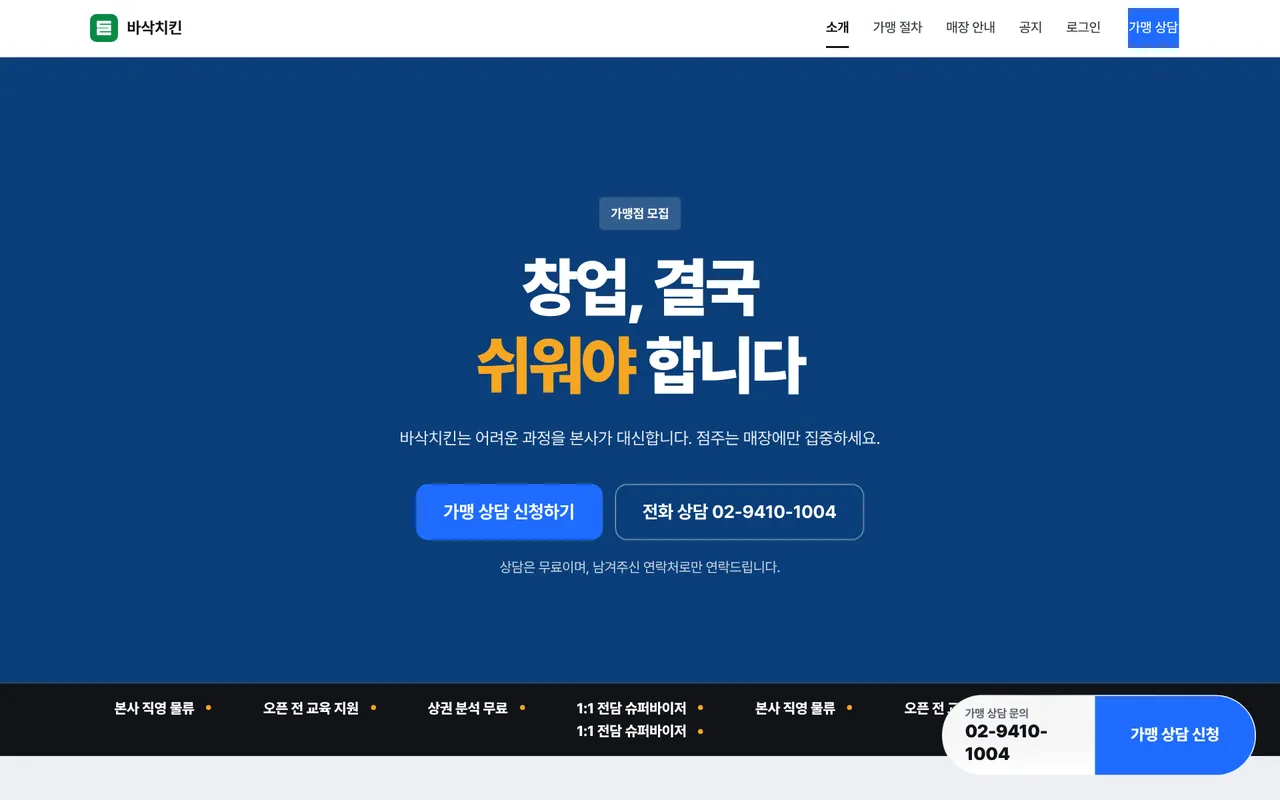
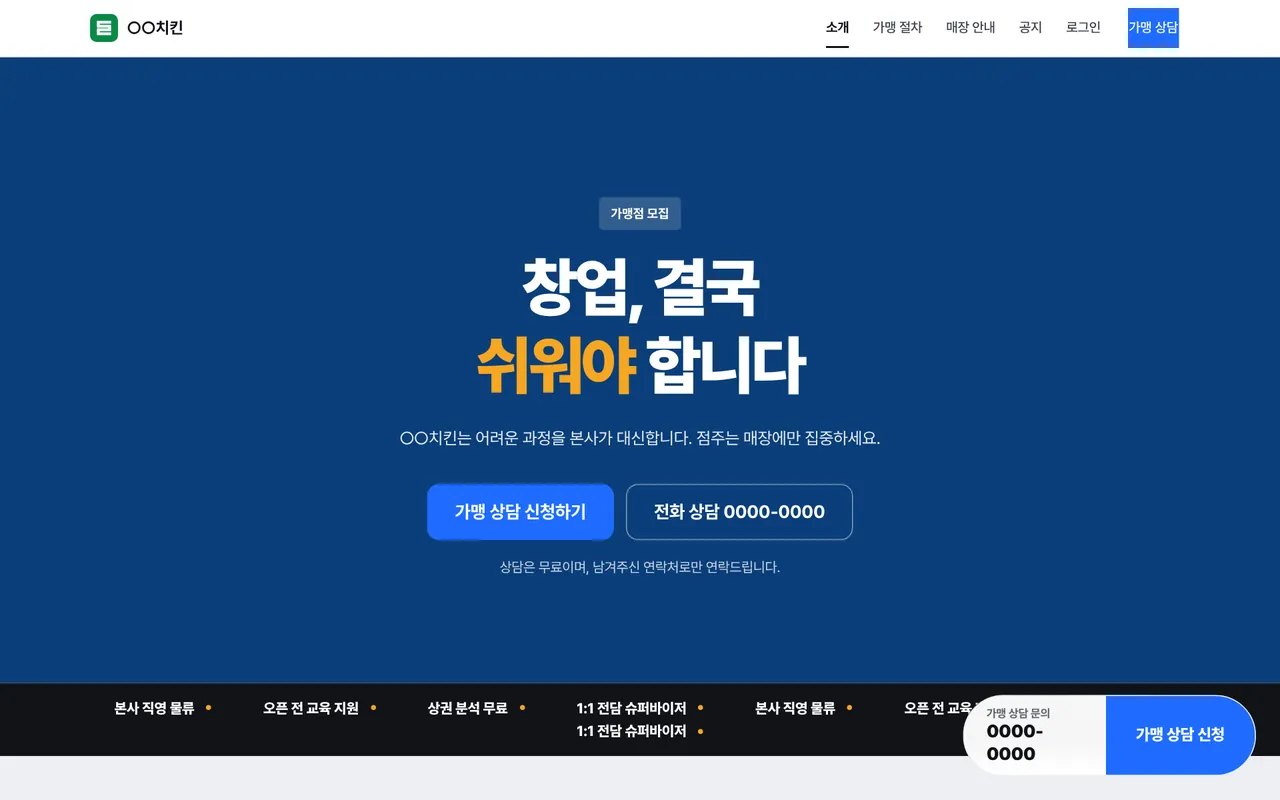
홈페이지 제작 페이지: 업체명 가림 · 움직임 추가(새 신청 알림 · 업종별 숫자 카드 · 매달 결제 흐름) · 통신판매업 신고번호
Claude-Session: https://claude.ai/code/session_01RPPicnX6jV1KXiheWYNQri

diff --git a/ur-team-site/assets/css/site.css b/ur-team-site/assets/css/site.css
@@ -1787,6 +1787,60 @@ a.prod:hover b { color: var(--accent); }
 .hp-pay p { color: var(--muted); font-size: 15px; }
 .hp-pay a { color: var(--accent); text-decoration: underline; text-underline-offset: 3px; }
 
+/* 첫 화면: 업종이 바뀔 때마다 "새 신청이 들어왔다" 알림이 뜬다(뜻: 문의가 쌓이는 홈페이지) */
+.hp-toast { position: absolute; left: -18px; bottom: 136px; z-index: 2; display: grid; grid-template-columns: auto 1fr auto; gap: 12px; align-items: center; min-width: 290px; padding: 12px 16px; background: #fff; border: 1px solid var(--line); border-left: 3px solid var(--accent); box-shadow: 0 18px 40px -18px rgba(15, 18, 22, .45); opacity: 0; transform: translateY(14px); transition: opacity .45s var(--ease), transform .55s var(--ease); }
+.hp-toast.is-show { opacity: 1; transform: none; }
+.hp-toast b { display: block; font-size: 14px; font-weight: 600; }
+.hp-toast small { display: block; font-size: 12px; color: var(--muted); }
+.hp-toast__dot { width: 9px; height: 9px; border-radius: 50%; background: var(--accent); animation: ping 1.6s infinite; }
+.hp-toast__n { font-size: 12px; color: var(--muted); white-space: nowrap; }
+.hp-toast__n b { display: inline; font-size: 15px; color: var(--accent); font-variant-numeric: tabular-nums; }
+
+/* 업종 사진 위 작은 카드 — 사진이 걷힌 뒤 떠오르고, 그 업종에서 실제로 움직이는 숫자를 보여 준다 */
+.hp-kind__media { position: relative; }
+.hp-chip { position: absolute; z-index: 1; background: #fff; border: 1px solid var(--line); box-shadow: 0 16px 34px -16px rgba(15, 18, 22, .4); padding: 12px 16px; font-size: 13px; opacity: 0; transform: translateY(16px); transition: opacity .6s var(--ease) .7s, transform .7s var(--ease) .7s; }
+[data-wipe].is-in .hp-chip { opacity: 1; transform: none; animation: hp-bob 5s ease-in-out 1.6s infinite; }
+@keyframes hp-bob { 50% { translate: 0 -6px; } }
+.hp-chip > span { display: flex; align-items: center; gap: 8px; color: var(--muted); font-weight: 500; }
+.hp-chip__live { width: 8px; height: 8px; border-radius: 50%; background: #18a058; box-shadow: 0 0 0 0 rgba(24, 160, 88, .5); animation: hp-live 1.8s infinite; }
+@keyframes hp-live { 70%, 100% { box-shadow: 0 0 0 8px rgba(24, 160, 88, 0); } }
+.hp-chip--open { right: 16px; bottom: 16px; display: grid; grid-template-columns: auto auto; gap: 2px 14px; align-items: center; }
+.hp-chip--open > span { grid-column: 1; }
+.hp-chip--open b { grid-column: 2; grid-row: 1; font-size: 22px; font-weight: 600; letter-spacing: -.02em; }
+.hp-chip--bars { left: 16px; bottom: 16px; width: 230px; }
+.hp-chip--bars p { display: grid; grid-template-columns: 44px 1fr; gap: 8px; align-items: center; margin-top: 8px; }
+.hp-chip--bars em { font-style: normal; font-size: 12px; color: var(--muted); }
+.hp-chip--bars i { display: block; height: 8px; background: var(--accent); width: 0; transition: width 1.2s var(--ease) 1.1s; }
+[data-wipe].is-in .hp-chip--bars p:nth-of-type(2) i { transition-delay: 1.25s; }
+[data-wipe].is-in .hp-chip--bars p:nth-of-type(3) i { transition-delay: 1.4s; }
+[data-wipe].is-in .hp-chip--bars i { width: var(--w); }
+.hp-chip--hours { right: 16px; bottom: 16px; width: 220px; }
+.hp-chip--hours > span { color: var(--ink); font-weight: 600; }
+.hp-chip__track { position: relative; height: 8px; margin: 10px 0 6px; background: var(--bg-3); }
+.hp-chip__track i { position: absolute; top: 0; bottom: 0; background: #9fd8c7; }
+.hp-chip__track i:nth-child(1) { left: 6%; width: 34%; }
+.hp-chip__track i:nth-child(2) { left: 46%; width: 40%; }
+.hp-chip__track b { position: absolute; top: -4px; bottom: -4px; width: 2px; background: var(--ink); left: 6%; transition: left 2.4s var(--ease) 1.1s; }
+[data-wipe].is-in .hp-chip__track b { left: 30%; }
+.hp-chip--hours small { font-size: 11px; color: var(--muted); }
+
+/* 가격: 매달 같은 날 결제되는 흐름 — 선이 지나가며 달마다 체크가 켜진다 */
+.hp-months { list-style: none; margin: 28px 0 0; padding: 0; display: grid; grid-template-columns: repeat(6, 1fr); position: relative; }
+.hp-months::before, .hp-months::after { content: ""; position: absolute; left: 0; right: 0; top: 11px; height: 2px; background: var(--line-2); }
+.hp-months::after { background: var(--accent); transform: scaleX(0); transform-origin: left; transition: transform 2.6s linear .2s; right: auto; width: calc(100% * 4 / 6); }
+.hp-months.is-in::after { transform: scaleX(1); }
+.hp-months li { position: relative; padding-top: 34px; font-size: 13px; }
+.hp-months li::before { content: ""; position: absolute; left: 0; top: 2px; width: 20px; height: 20px; border-radius: 50%; background: #fff; border: 2px solid var(--line-2); transition: background .3s, border-color .3s; transition-delay: calc(var(--n, 0) * .55s + .2s); }
+.hp-months li::after { content: ""; position: absolute; left: 6px; top: 7px; width: 5px; height: 9px; border: solid #fff; border-width: 0 2px 2px 0; transform: rotate(45deg) scale(0); transition: transform .3s; transition-delay: calc(var(--n, 0) * .55s + .3s); }
+.hp-months.is-in li::before { background: var(--accent); border-color: var(--accent); }
+.hp-months.is-in li::after { transform: rotate(45deg) scale(1); }
+.hp-months li:nth-child(1) { --n: 0; } .hp-months li:nth-child(2) { --n: 1; } .hp-months li:nth-child(3) { --n: 2; } .hp-months li:nth-child(4) { --n: 3; } .hp-months li:nth-child(5) { --n: 4; }
+.hp-months .hp-months__end::before { border-style: dashed; }
+.hp-months.is-in .hp-months__end::before { background: #fff; border-color: var(--line-2); }
+.hp-months.is-in .hp-months__end::after { transform: rotate(45deg) scale(0); }
+.hp-months b { display: block; font-weight: 600; }
+.hp-months small { color: var(--muted); font-size: 12px; }
+
 @media (max-width: 960px) {
   .hp-hero__in, .hp-kind, .hp-kind--flip, .hp-edit { grid-template-columns: 1fr; }
   .hp-kind--flip .hp-kind__media { order: 0; }
@@ -1798,10 +1852,23 @@ a.prod:hover b { color: var(--accent); }
   .hp-phone { width: 30%; right: -6px; bottom: 92px; border-width: 4px; border-radius: 14px; }
   .hp-demo { grid-template-columns: 1fr; }
   .hp-demo__arrow { transform: rotate(90deg); justify-self: center; }
+  .hp-toast { left: 8px; right: auto; min-width: 0; bottom: 170px; padding: 8px 12px; gap: 10px; }
+  .hp-toast b { font-size: 13px; }
+  .hp-toast small { font-size: 11px; }
+  .hp-toast__n { display: none; }
+  .hp-chip { padding: 8px 12px; font-size: 12px; }
+  .hp-chip--open, .hp-chip--hours { right: 8px; bottom: 8px; }
+  .hp-chip--bars { left: 8px; bottom: 8px; width: 180px; }
+  .hp-chip--hours { width: 180px; }
+  .hp-months { grid-template-columns: repeat(3, 1fr); row-gap: 20px; }
+  .hp-months::before, .hp-months::after { display: none; }
 }
 @media (prefers-reduced-motion: reduce) {
   .hp-browser__view img, .hp-phone img { transition: none; transform: none; }
   .hp-browser__view img.is-on { animation: none; }
   .hp-tabs button[aria-selected="true"] .hp-tabs__bar { animation: none; transform: scaleX(1); }
   .hp-demo__caret { animation: none; }
+  .hp-toast, .hp-chip { transition: none; animation: none !important; }
+  .hp-toast__dot, .hp-chip__live { animation: none; }
+  .hp-months::after, .hp-months li::before, .hp-months li::after, .hp-chip--bars i, .hp-chip__track b { transition: none; }
 }

diff --git a/ur-team-site/src/pages/homepage.html b/ur-team-site/src/pages/homepage.html
@@ -12,7 +12,7 @@
     <!-- 업종을 고르면(또는 몇 초마다 저절로) 창 안의 실제 화면이 그 업종으로 바뀐다 -->
     <div class="hp-stage" data-hp-stage data-reveal="right" style="--i:2">
       <div class="hp-browser" aria-hidden="true">
-        <div class="hp-browser__bar"><i></i><i></i><i></i><span class="hp-browser__url" data-hp-url>bangbae-cafe.kr</span></div>
+        <div class="hp-browser__bar"><i></i><i></i><i></i><span class="hp-browser__url" data-hp-url>our-street.kr</span></div>
         <div class="hp-browser__view">
           <img class="is-on" data-hp-shot="merchant" src="/assets/img/hp/merchant-desk.webp" alt="" width="1280" height="800" fetchpriority="high">
           <img data-hp-shot="franchise" src="/assets/img/hp/franchise-desk.webp" alt="" width="1280" height="800" loading="lazy">
@@ -24,10 +24,11 @@
         <img data-hp-shot="franchise" src="/assets/img/hp/franchise-phone.webp" alt="" width="585" height="1266" loading="lazy">
         <img data-hp-shot="clinic" src="/assets/img/hp/clinic-phone.webp" alt="" width="585" height="1266" loading="lazy">
       </div>
+      <div class="hp-toast" data-hp-toast aria-hidden="true"><i class="hp-toast__dot"></i><div><b data-hp-toast-t>새 회원 가입 신청</b><small data-hp-toast-d>카페 · 방금 전</small></div><span class="hp-toast__n">오늘 <b data-hp-toast-n>3</b>건</span></div>
       <div class="hp-tabs" role="tablist" aria-label="업종별 예시 화면">
-        <button type="button" role="tab" aria-selected="true" data-hp-tab="merchant" data-url="bangbae-cafe.kr"><span>상인회</span><i class="hp-tabs__bar"></i></button>
-        <button type="button" role="tab" aria-selected="false" data-hp-tab="franchise" data-url="basak-chicken.co.kr"><span>가맹점 모집</span><i class="hp-tabs__bar"></i></button>
-        <button type="button" role="tab" aria-selected="false" data-hp-tab="clinic" data-url="cheonsaem-clinic.kr"><span>병원</span><i class="hp-tabs__bar"></i></button>
+        <button type="button" role="tab" aria-selected="true" data-hp-tab="merchant" data-url="our-street.kr" data-toast-t="새 회원 가입 신청" data-toast-d="카페 · 방금 전"><span>상인회</span><i class="hp-tabs__bar"></i></button>
+        <button type="button" role="tab" aria-selected="false" data-hp-tab="franchise" data-url="our-brand.co.kr" data-toast-t="새 가맹 상담 신청" data-toast-d="네이버 광고로 들어옴 · 방금 전"><span>가맹점 모집</span><i class="hp-tabs__bar"></i></button>
+        <button type="button" role="tab" aria-selected="false" data-hp-tab="clinic" data-url="our-clinic.kr" data-toast-t="새 진료 상담 문의" data-toast-d="허리 통증 · 방금 전"><span>병원</span><i class="hp-tabs__bar"></i></button>
       </div>
       <p class="hp-stage__note">실제로 만든 화면입니다. 이름과 내용은 예시입니다.</p>
     </div>
@@ -37,7 +38,7 @@
 <section class="sec sec--tight">
   <div class="wrap">
     <div class="nums nums--4" data-stagger>
-      <div><b>3<small>가지</small></b><span>업종별 틀 (상인회 · 가맹점 모집 · 병원)</span></div>
+      <div><b><span data-count="3">3</span><small>가지</small></b><span>업종별 틀 (상인회 · 가맹점 모집 · 병원)</span></div>
       <div><b>PC<small> · </small>폰</b><span>한 번 만들면 두 화면 모두</span></div>
       <div><b>매주</b><span>내용 전체 자동 백업</span></div>
       <div><b>언제든</b><span>해지 가능 · 위약금 없음</span></div>
@@ -54,7 +55,8 @@
     </div>
 
     <div class="hp-kind">
-      <div class="hp-kind__media" data-wipe><img src="/assets/img/hp/merchant-desk.webp" alt="상인회 홈페이지 예시 — 가입 점포 검색과 지금 문 연 가게" loading="lazy" width="1280" height="800"></div>
+      <div class="hp-kind__media" data-wipe><img src="/assets/img/hp/merchant-desk.webp" alt="상인회 홈페이지 예시 — 가입 점포 검색과 지금 문 연 가게" loading="lazy" width="1280" height="800">
+        <div class="hp-chip hp-chip--open" aria-hidden="true"><i class="hp-chip__live"></i><span>지금 문 연 가게</span><b><span data-count="17">17</span>곳</b></div></div>
       <div data-reveal="left">
         <span class="k">01 · 상인회 · 골목 상권</span>
         <h3 class="h3">우리 골목 가게를 한 곳에서 찾게</h3>
@@ -69,7 +71,9 @@
     </div>
 
     <div class="hp-kind hp-kind--flip">
-      <div class="hp-kind__media" data-wipe><img src="/assets/img/hp/franchise-desk.webp" alt="가맹점 모집 랜딩 예시 — 가맹 상담 신청" loading="lazy" width="1280" height="800"></div>
+      <div class="hp-kind__media" data-wipe><img src="/assets/img/hp/franchise-desk.webp" alt="가맹점 모집 랜딩 예시 — 가맹 상담 신청" loading="lazy" width="1280" height="800">
+        <div class="hp-chip hp-chip--bars" aria-hidden="true"><span>광고별 상담 신청</span>
+          <p><em>네이버</em><i style="--w:86%"></i></p><p><em>인스타</em><i style="--w:58%"></i></p><p><em>당근</em><i style="--w:34%"></i></p></div></div>
       <div data-reveal="right">
         <span class="k">02 · 프랜차이즈 · 가맹점 모집</span>
         <h3 class="h3">보고 나면 연락처를 남기는 한 장</h3>
@@ -84,7 +88,8 @@
     </div>
 
     <div class="hp-kind">
-      <div class="hp-kind__media" data-wipe><img src="/assets/img/hp/clinic-desk.webp" alt="병원 홈페이지 예시 — 오늘 진료 시간 막대" loading="lazy" width="1280" height="800"></div>
+      <div class="hp-kind__media" data-wipe><img src="/assets/img/hp/clinic-desk.webp" alt="병원 홈페이지 예시 — 오늘 진료 시간 막대" loading="lazy" width="1280" height="800">
+        <div class="hp-chip hp-chip--hours" aria-hidden="true"><span><i class="hp-chip__live"></i>지금 진료 중</span><div class="hp-chip__track"><i></i><i></i><b></b></div><small>9시 · · · 18시 30분</small></div></div>
       <div data-reveal="left">
         <span class="k">03 · 병원 · 의원</span>
         <h3 class="h3">"지금 진료하나요"에 첫 화면이 답하게</h3>
@@ -173,6 +178,14 @@
         <ul class="ticks"><li>진료 과목 · 의료진 · 칼럼 페이지</li><li>오늘 진료 시간 · 오시는 길</li><li>의료광고 표현 검사</li></ul>
       </article>
     </div>
+    <ol class="hp-months" data-reveal aria-label="결제 흐름 예시">
+      <li><b>카드 등록</b><small>제작비 + 1개월</small></li>
+      <li><b>2개월</b><small>자동 결제</small></li>
+      <li><b>3개월</b><small>자동 결제</small></li>
+      <li><b>4개월</b><small>자동 결제</small></li>
+      <li><b>5개월</b><small>자동 결제</small></li>
+      <li class="hp-months__end"><b>해지하면</b><small>다음 달부터 멈춤</small></li>
+    </ol>
     <div class="hp-pay" data-reveal>
       <b>결제 방법</b>
       <p>제작비와 첫 달 이용료는 카드를 등록할 때 한 번에 결제되고, 그 뒤로는 <strong>매달 같은 날</strong> 등록한 카드에서 월 이용료가 자동 결제됩니다(토스페이먼츠).

diff --git a/ur-team-site/assets/js/site.js b/ur-team-site/assets/js/site.js
@@ -315,7 +315,8 @@
     const tabs = [...st.querySelectorAll("[data-hp-tab]")], url = st.querySelector("[data-hp-url]");
     const DUR = 5000;
     st.style.setProperty("--hp-dur", DUR / 1000 + "s");
-    let i = 0, timer = 0, paused = reduce;
+    const toast = st.querySelector("[data-hp-toast]");
+    let i = 0, timer = 0, paused = reduce, toastT = 0, count = 2;
     if (paused) st.classList.add("is-paused");
     const show = (n) => {
       i = (n + tabs.length) % tabs.length;
@@ -327,11 +328,22 @@
         im.classList.toggle("is-on", on);
       });
       if (url) url.textContent = tabs[i].dataset.url || "";
+      // 화면이 바뀌고 조금 뒤 "새 신청" 알림이 뜬다 — 문의가 쌓이는 홈페이지라는 뜻
+      if (toast) {
+        toast.classList.remove("is-show"); clearTimeout(toastT);
+        toastT = setTimeout(() => {
+          toast.querySelector("[data-hp-toast-t]").textContent = tabs[i].dataset.toastT || "";
+          toast.querySelector("[data-hp-toast-d]").textContent = tabs[i].dataset.toastD || "";
+          const n = toast.querySelector("[data-hp-toast-n]"); n.textContent = String(++count);
+          toast.classList.add("is-show");
+        }, reduce ? 0 : 1300);
+      }
     };
     const loop = () => { clearTimeout(timer); if (!paused) timer = setTimeout(() => { show(i + 1); loop(); }, DUR); };
     tabs.forEach((t, j) => t.addEventListener("click", () => { paused = true; st.classList.add("is-paused"); clearTimeout(timer); show(j); }));
     // 화면 밖에 있으면 돌리지 않는다
-    new IntersectionObserver(([en]) => { if (en.isIntersecting) loop(); else clearTimeout(timer); }).observe(st);
+    let first = true;
+    new IntersectionObserver(([en]) => { if (en.isIntersecting) { if (first) { first = false; show(0); } loop(); } else clearTimeout(timer); }).observe(st);
     // 다음 화면을 미리 받아 둔다(바뀔 때 빈 창이 보이지 않게)
     addEventListener("load", () => st.querySelectorAll('img[loading="lazy"]').forEach((im) => { im.loading = "eager"; }), { once: true });
   });

diff --git a/ur-team-site/src/pages/terms.html b/ur-team-site/src/pages/terms.html
@@ -54,7 +54,7 @@
       <p>회사는 천재지변, 이용자의 귀책, 회사가 통제할 수 없는 외부 서비스(통신사 · 결제대행사 · 지도 등)의 장애로 인한 손해에 대해서는 책임을 지지 않습니다.</p>
 
       <h2>제9조 (문의)</h2>
-      <p>유어팀 · 대표자 정지원 · 사업자등록번호 479-09-02930<br>
+      <p>유어팀 · 대표자 정지원 · 사업자등록번호 479-09-02930 · 통신판매업 신고번호 제2025-부산금정-0540호<br>
         서울특별시 강남구 남부순환로359길 14, 3F<br>
         전화 <a href="tel:{{phone}}">{{phone}}</a> · 이메일 <a href="mailto:{{email}}">{{email}}</a></p>
     </div>

diff --git a/ur-team-site/src/partials/footer.html b/ur-team-site/src/partials/footer.html
@@ -22,7 +22,7 @@
     </nav>
     <address class="ft__info">
       <b>유어팀</b>
-      <span>대표자 정지원</span><span>사업자등록번호 479-09-02930</span>
+      <span>대표자 정지원</span><span>사업자등록번호 479-09-02930</span><span>통신판매업 신고번호 제2025-부산금정-0540호</span>
       <span>대표번호 <a href="tel:{{phone}}">{{phone}}</a></span>
       <span>본사 서울특별시 강남구 남부순환로359길 14, 3F</span>
       <span>인천 물류센터 인천광역시 부평구 주부토로 236, U1센터 C동 109호</span>

diff --git a/ur-team-site/src/en/partials/footer.html b/ur-team-site/src/en/partials/footer.html
@@ -22,7 +22,7 @@
     </nav>
     <address class="ft__info">
       <b>UrTeam</b>
-      <span>CEO Jiwon Jung</span><span>Business registration 479-09-02930</span>
+      <span>CEO Jiwon Jung</span><span>Business registration 479-09-02930</span><span>Mail-order business report 2025-부산금정-0540</span>
       <span>Tel <a href="tel:+8250371514726">+82 503-7151-4726</a></span>
       <span>Head office 3F, 14 Nambusunhwan-ro 359-gil, Gangnam-gu, Seoul, Korea</span>
       <span>Incheon logistics center C-109, U1 Center, 236 Jubuto-ro, Bupyeong-gu, Incheon, Korea</span>
